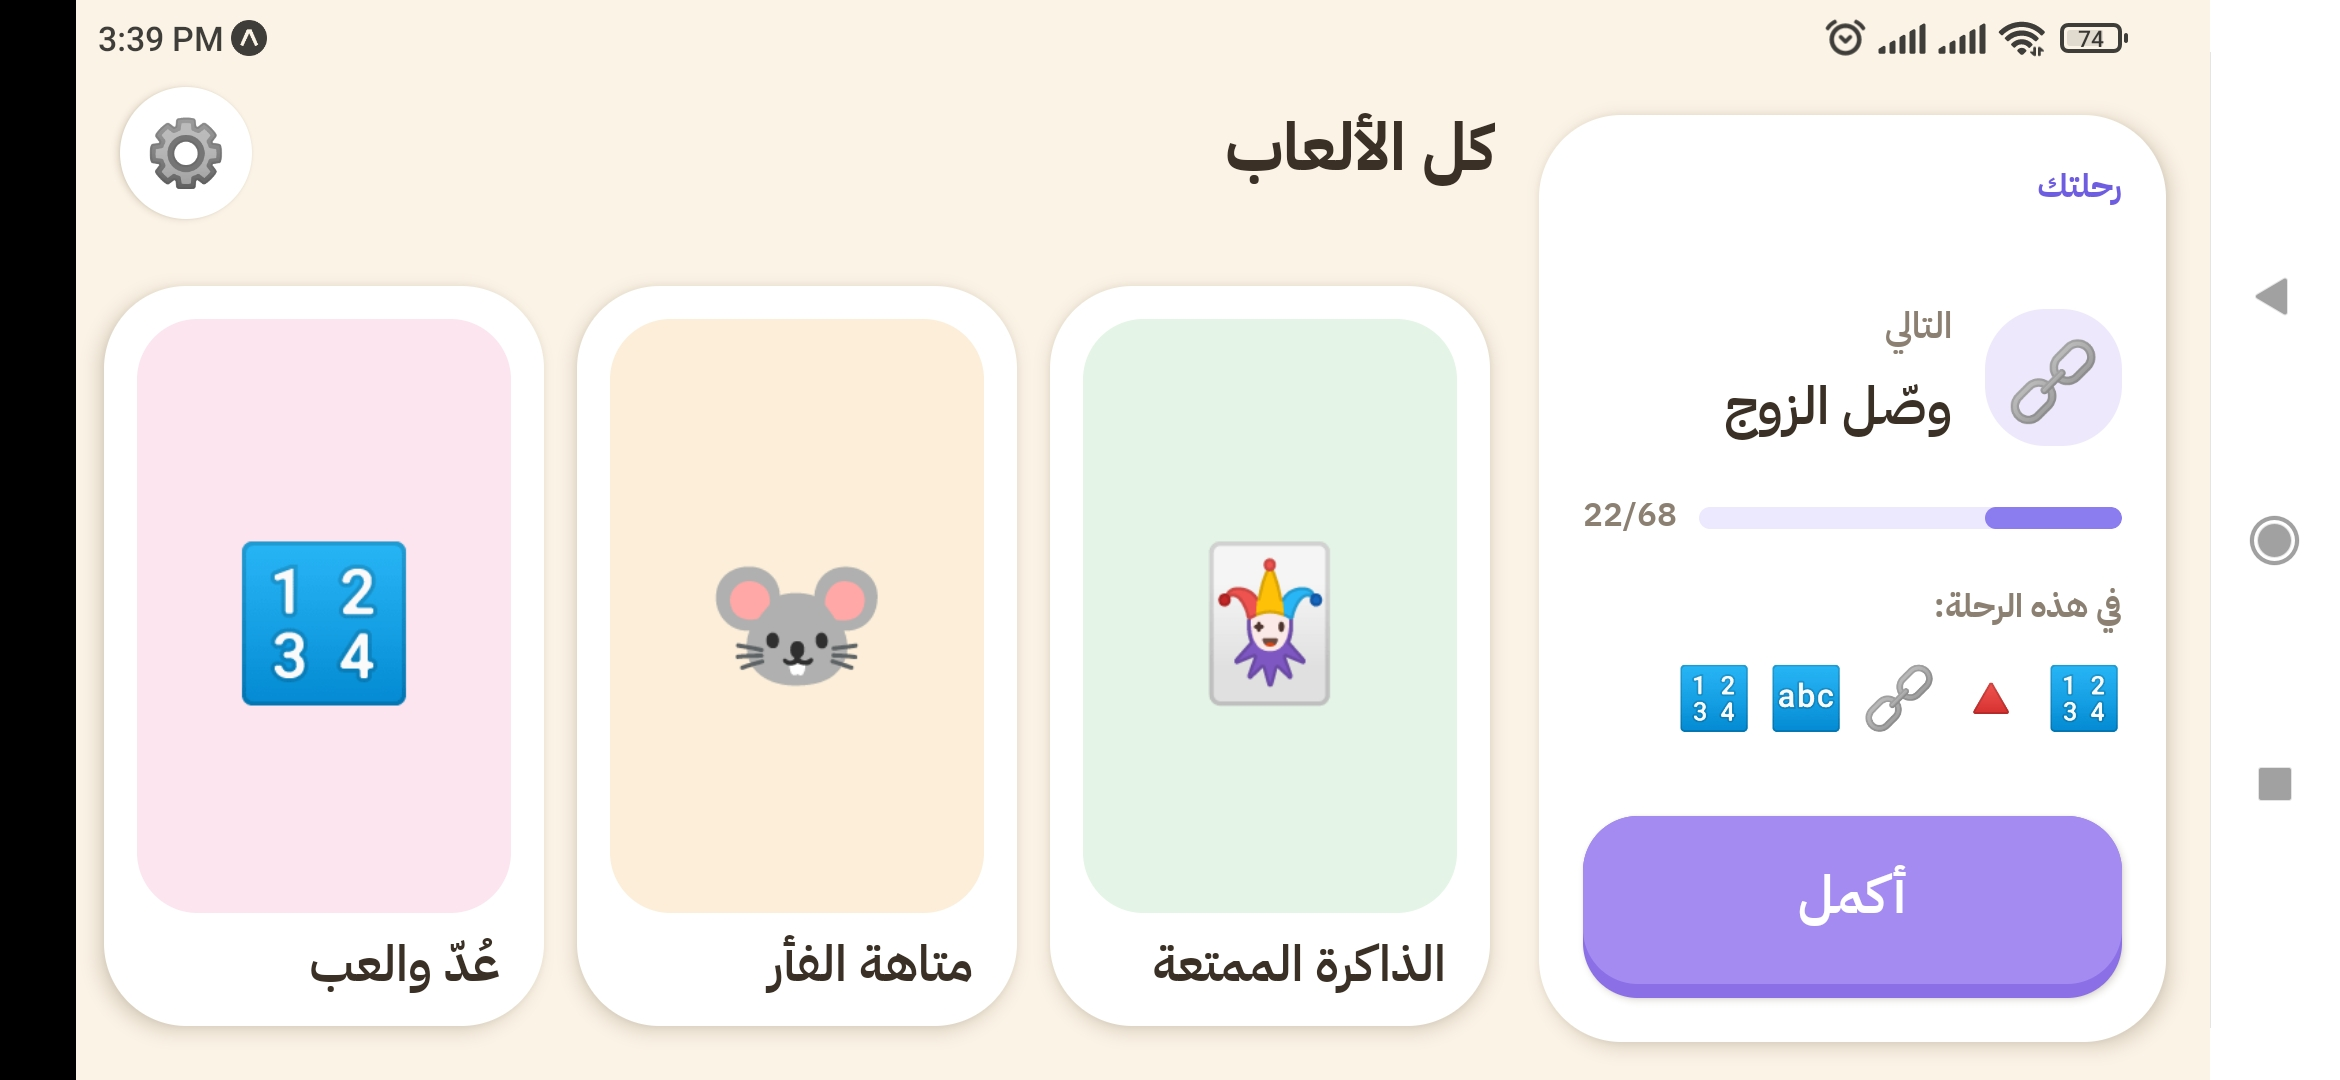
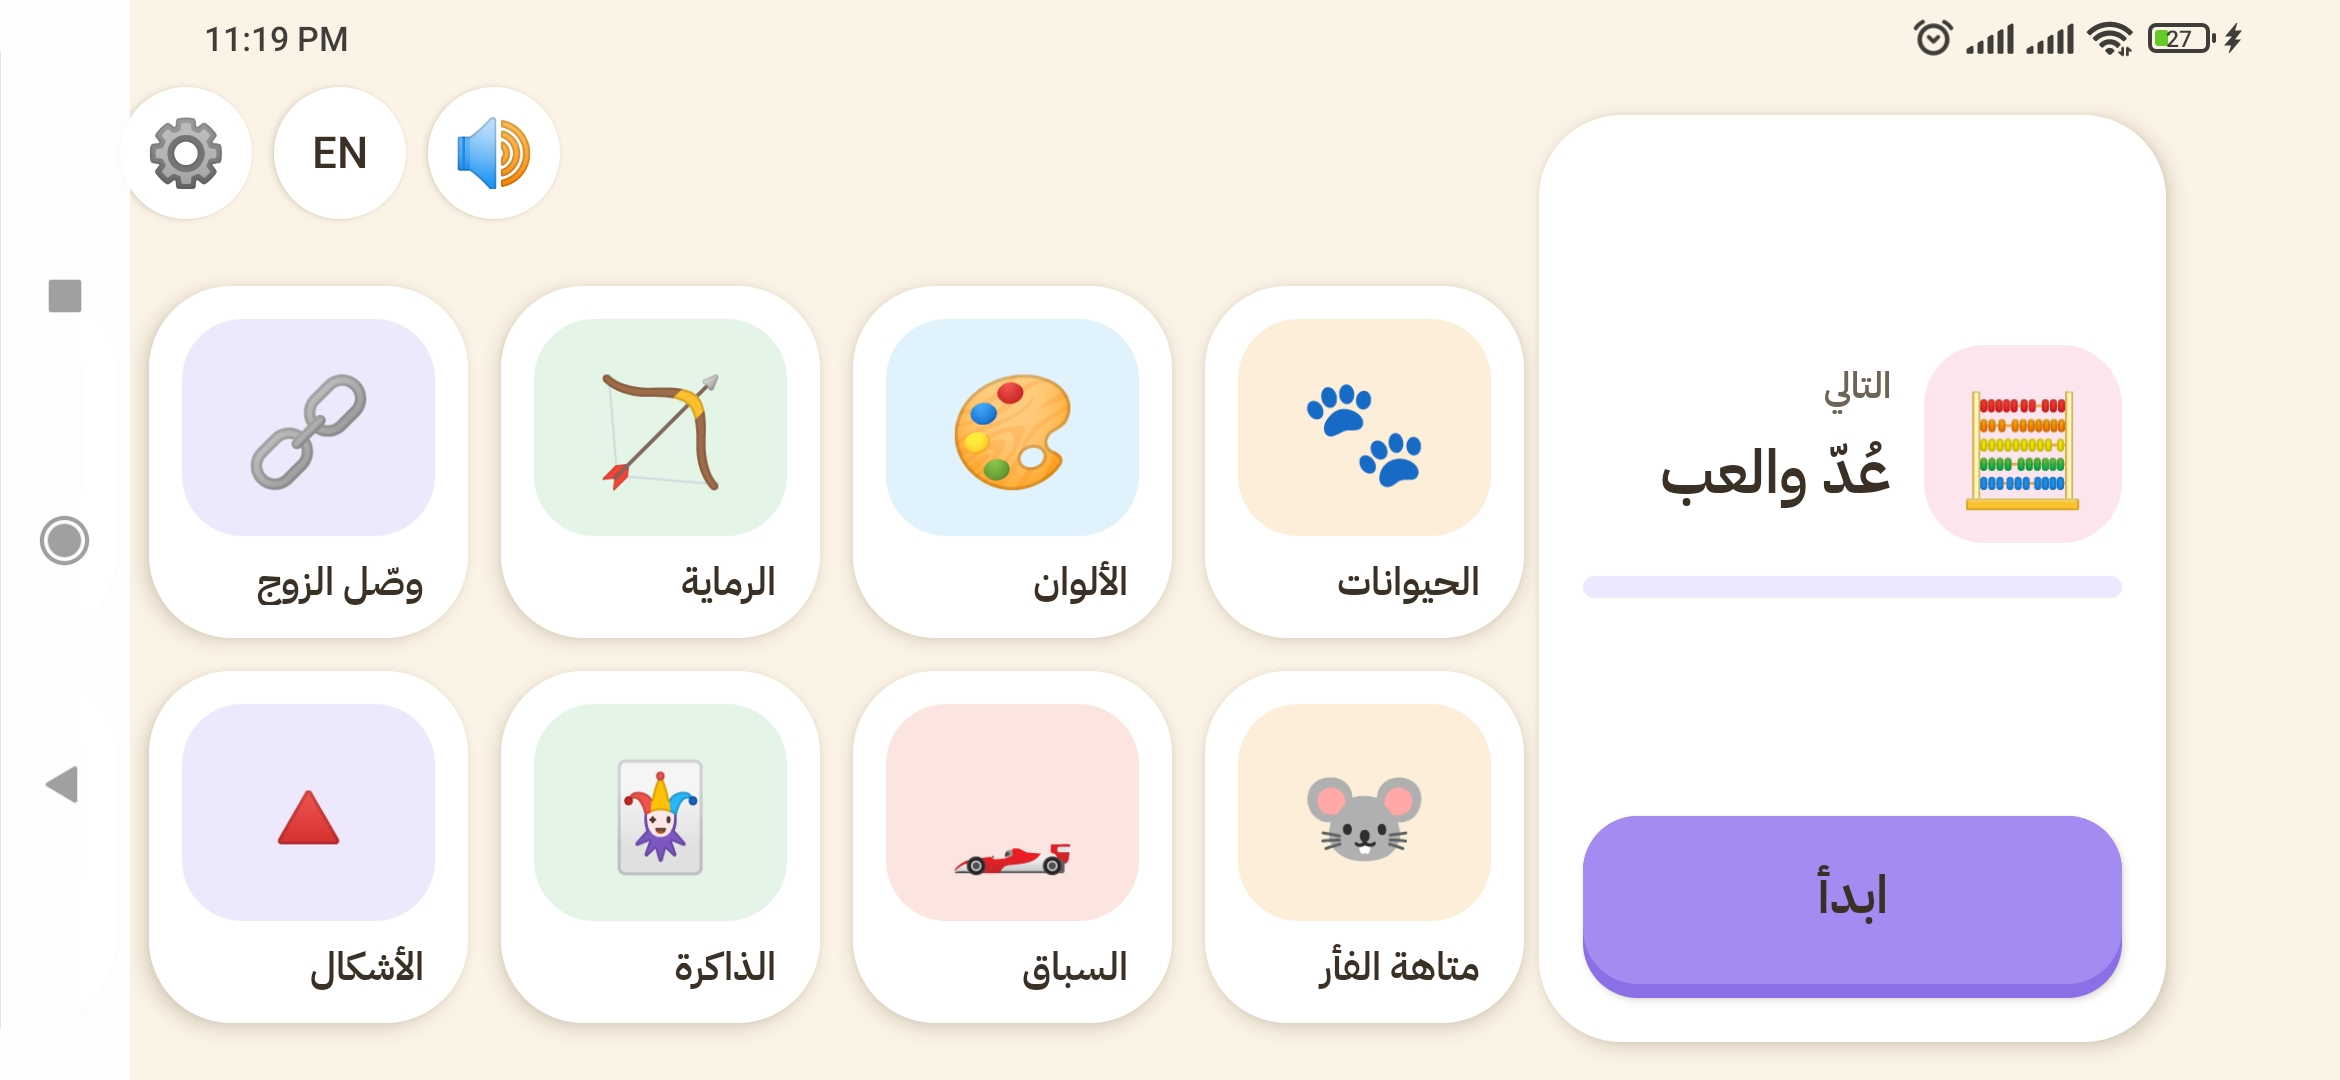
chore(store): refresh listing and README for 1.2.0
Add Animal Safari to the Play descriptions and README, rewrite the
release notes around the parent gate, Home sound/language buttons and
tablet layouts, and update the lead phone screenshot in both locales.

diff --git a/README.md b/README.md
@@ -61,7 +61,7 @@ For full setup, testing on a phone via Expo Go, and local/EAS cloud builds acros
 App.tsx                     # Entry: loads fonts, SafeAreaProvider, NavigationContainer, game registration
 src/
 ├── app/navigation/         # RootNavigator — screens: Home, GamePlayer, Settings
-├── screens/                # HomeScreen (game grid), GamePlayerScreen (loads game by id), SettingsScreen
+├── screens/                # HomeScreen (game grid), GamePlayerScreen (loads game by id), SettingsScreen (behind ParentGate)
 ├── sdk/                    # SDK platform core — the single import surface for games (@/sdk)
 │   ├── config/             # registerGame / getGame / getAllGames + GameConfig types
 │   ├── layout/             # GameShell, useGameShell, useScreenBack
@@ -77,6 +77,7 @@ src/
 ├── games/
 │   ├── index.ts            # Side-effect imports that register each game
 │   ├── _template/          # Copy this to start a new game
+│   ├── _shared/            # Cross-game building blocks (listen-find board & round generator)
 │   ├── simple-pairs/       # Memory matching card game
 │   ├── color-mixer/        # Color mixing & discovery game
 │   ├── mouse-maze/         # Swipe-to-solve maze with levels
@@ -86,7 +87,8 @@ src/
 │   ├── count-and-pop/      # Count objects and pop the number
 │   ├── match-up/           # Draw a line from each thing to its match
 │   ├── letter-land/        # Listen-and-find letters (phonics)
-│   └── numbers-land/       # Listen-and-find numbers
+│   ├── numbers-land/       # Listen-and-find numbers
+│   └── animal-safari/      # Listen-and-find animals (first words)
 ├── types/                  # RootStackParamList, shared types
 ├── hooks/                  # Shared hooks
 └── utils/                  # Shared helpers
@@ -130,6 +132,7 @@ See `CLAUDE.md` (Design-system adherence) and the `kids-games-dev` skill for the
 | **Match Up** | 3–7 | Matching | Draw a line from each thing to its match (animals→food, helpers→tools, and more) |
 | **Letter Land** | 3–7 | Literacy & phonics | Listen and find the letter — with spoken prompts and word-picture heroes |
 | **Numbers Land** | 3–7 | Numbers | Listen and find the number, with spoken prompts |
+| **Animal Safari** | 3–7 | First words | Listen and find the animal — by name or by the sound it makes |
 
 ## Adding a New Game
 
